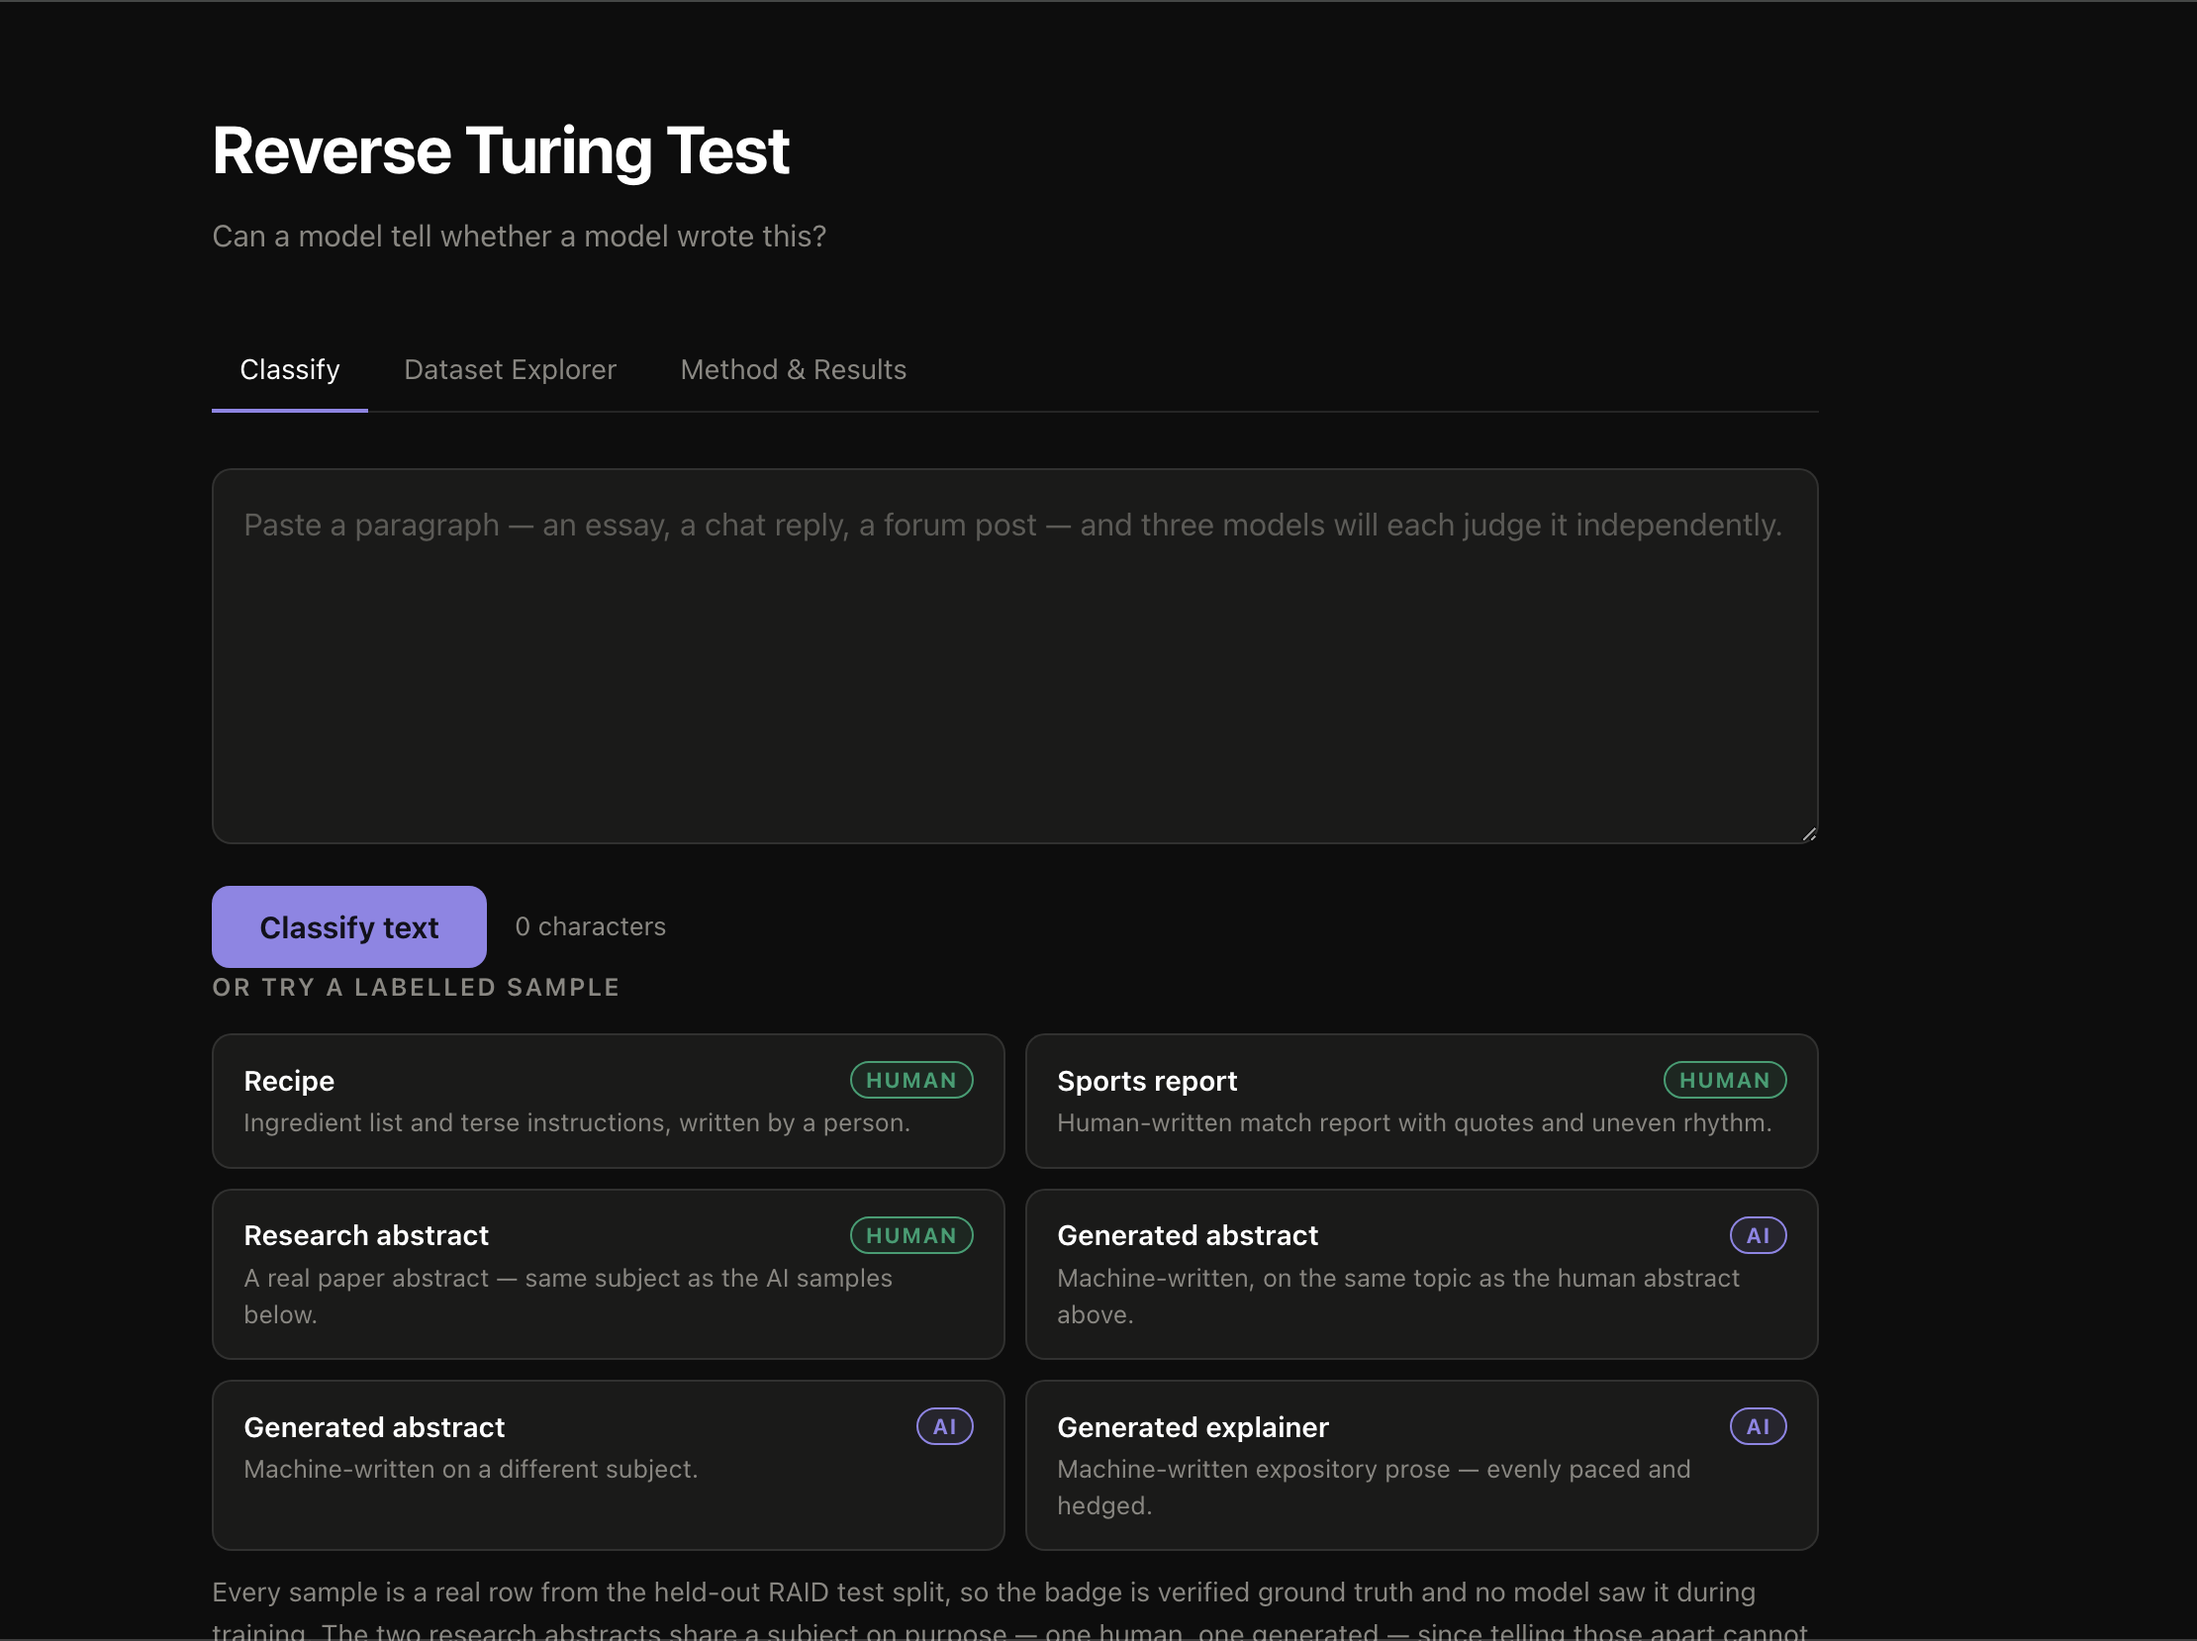
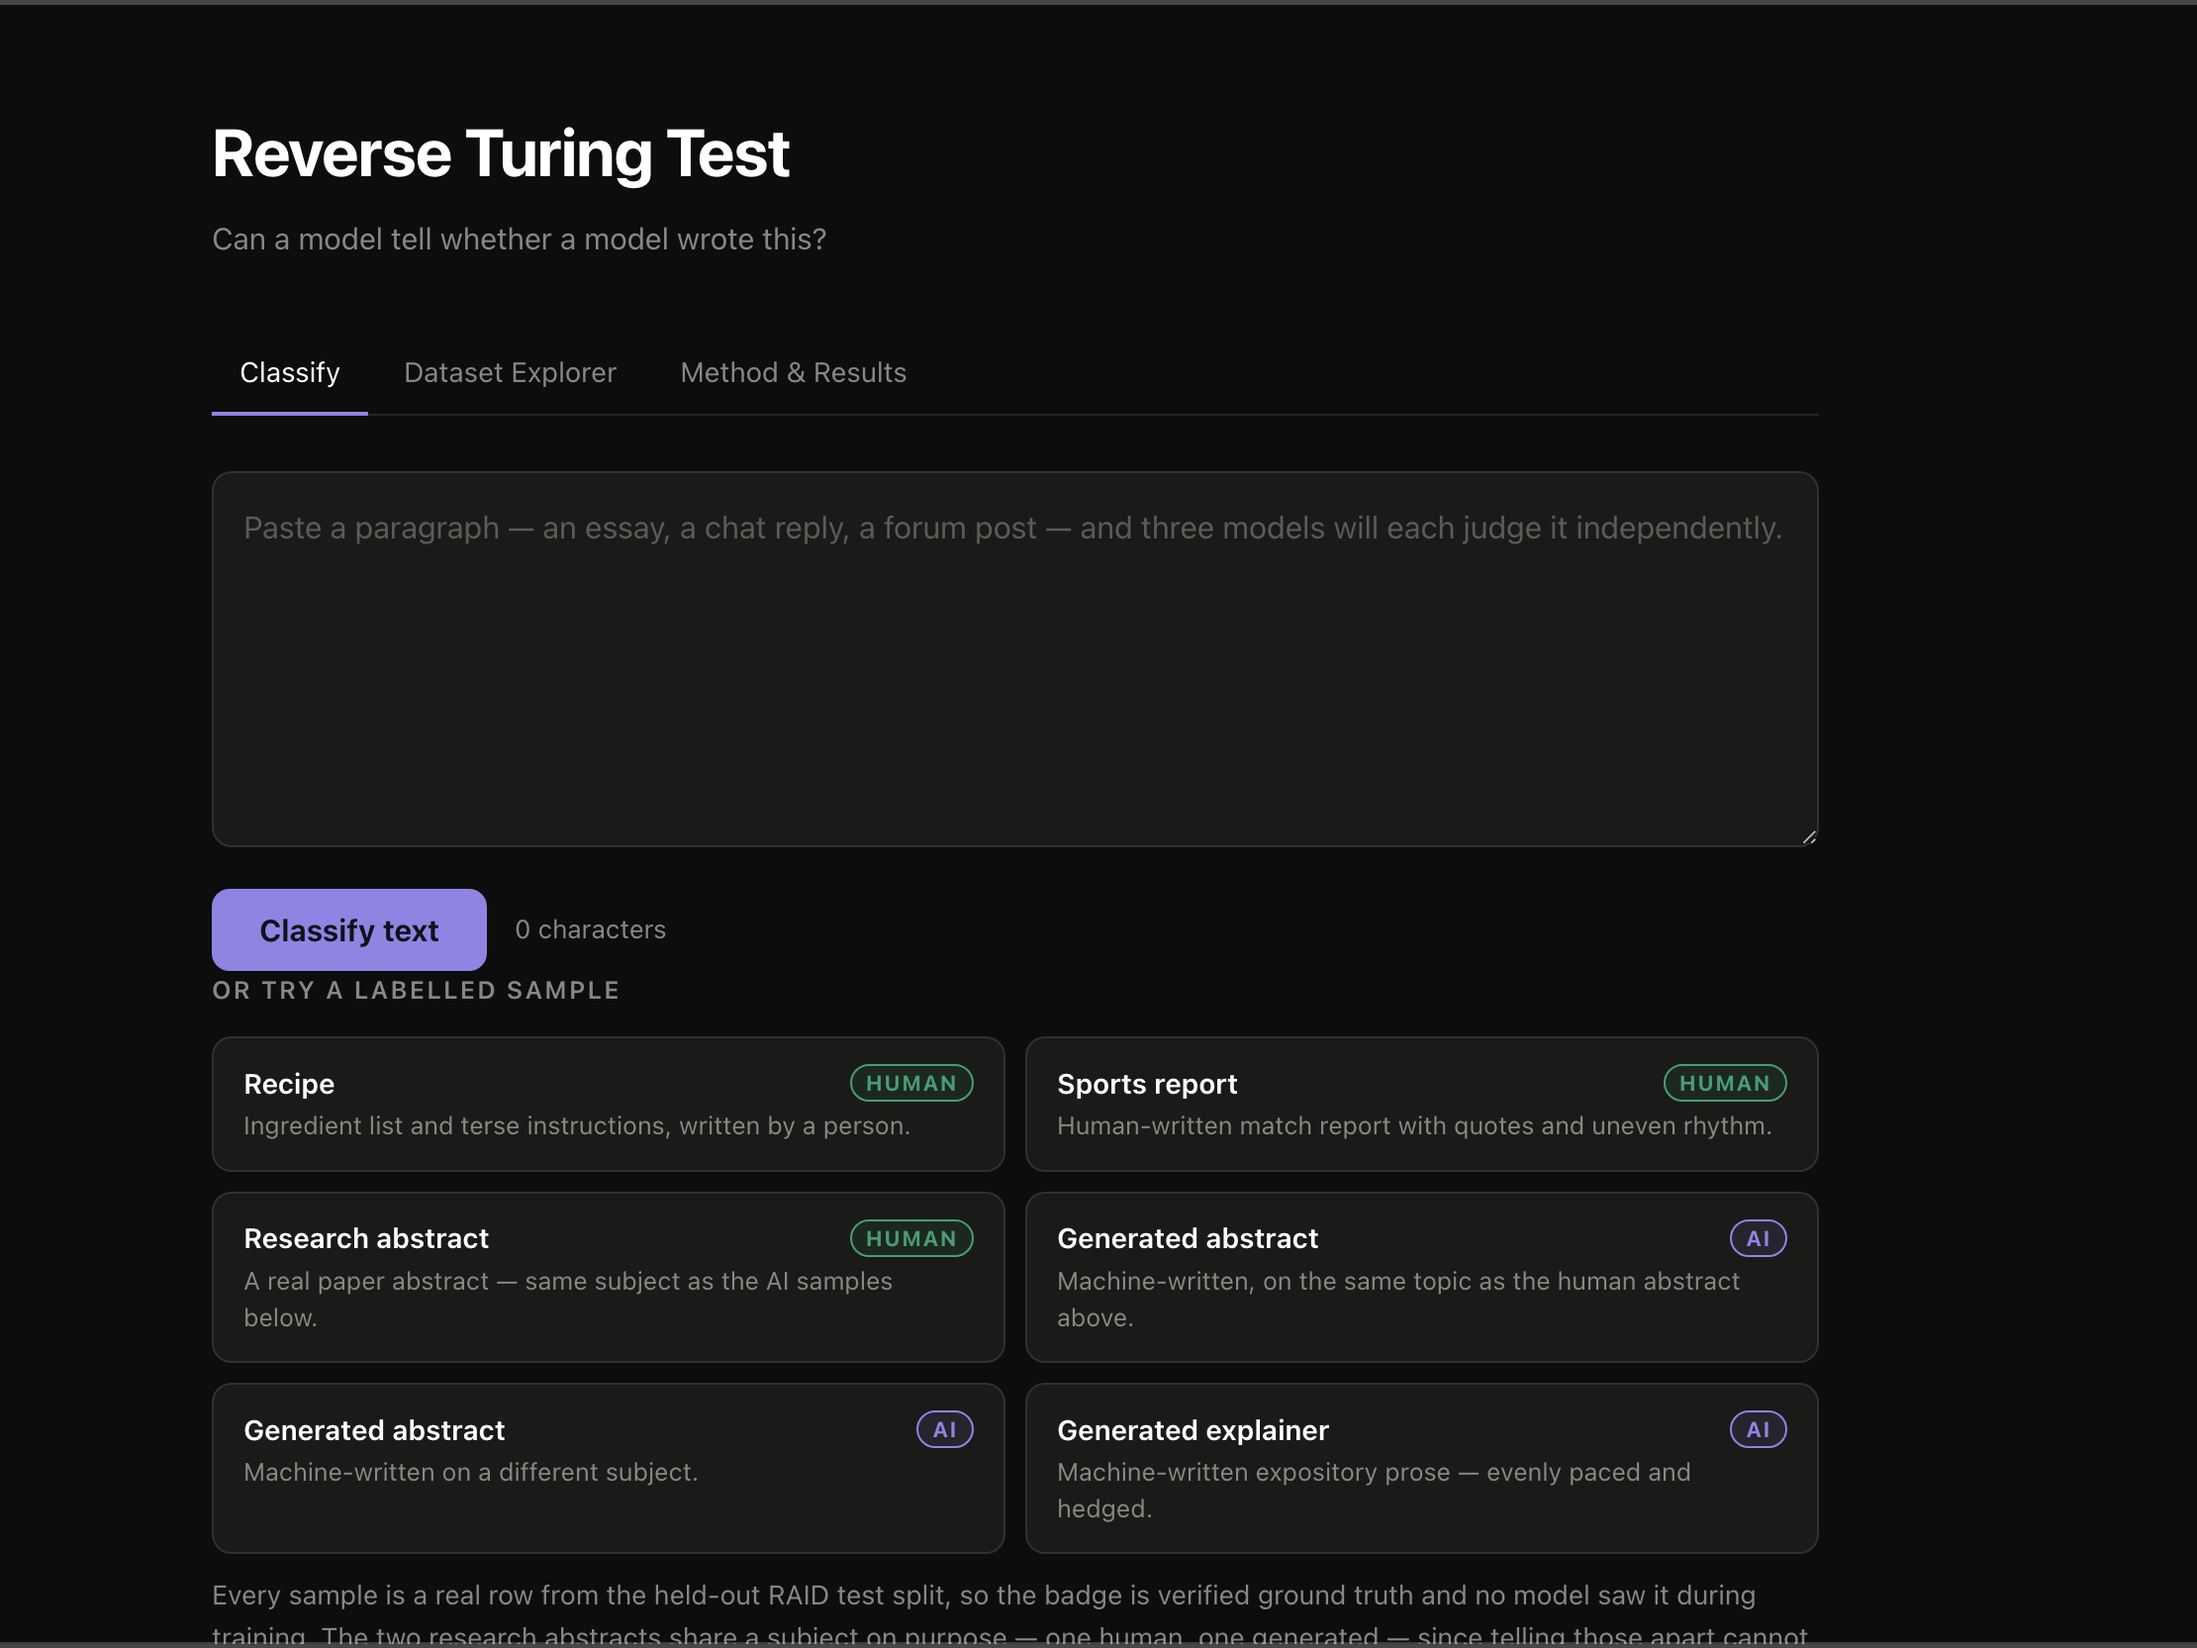
resized pictures, added hero page (again)

diff --git a/style.css b/style.css
@@ -110,13 +110,59 @@ section {
     height: 100vh;
 }
 
+/* ---- Hero ---- */
+#hero {
+    display: flex;
+    flex-direction: column;
+    justify-content: center;
+    align-items: center;
+    text-align: center;
+    /* The nav links park low on this screen now, so the clearance moved here */
+    padding: 6rem 2rem 8rem;
+}
+
+#hero-name {
+    font-weight: 500;
+    font-size: clamp(2.75rem, 9vw, 5rem);
+    line-height: 1.1;
+    margin-bottom: 1rem;
+}
+
+#hero-tagline {
+    font-size: clamp(1.1rem, 2.5vw, 1.5rem);
+    opacity: 0.65;
+    margin-bottom: 2.5rem;
+}
+
+#hero-actions {
+    display: flex;
+    align-items: center;
+    justify-content: center;
+    flex-wrap: wrap;
+    gap: 1rem;
+}
+
+.hero-button {
+    padding: 0.6rem 1.75rem;
+    border: 1px solid var(--text);
+    color: var(--text);
+    text-decoration: none;
+    font-size: 1.1rem;
+    transition: background 0.2s, color 0.2s, border-color 0.2s;
+}
+
+.hero-button:hover {
+    background: var(--accent);
+    border-color: var(--accent);
+    color: var(--bg);
+}
+
 #about {
     display: flex;
     flex-direction: column;
     justify-content: center;
     align-items: center;
-    /* Bottom padding reserves room for the nav links parked down there */
-    padding: 6rem 2rem 8rem;
+    padding: 6rem 2rem 4rem;
 }
 
 #about-content {
@@ -859,7 +905,11 @@ html.dark #theme-toggle::after {
     font-size: 0.95rem;
 }
 
+/* #nav-socials is listed explicitly because script.js relocates it out of
+   #social-links into the footer on desktop. Without it these SVGs have no
+   width/height attributes and would fall back to their intrinsic default. */
 #social-links svg,
+#nav-socials svg,
 #about-links svg {
     width: 17px;
     height: 17px;
@@ -872,13 +922,33 @@ html.dark #theme-toggle::after {
     transform: translateY(-120px);
 }
 
+/* A real footer band at the end of the document rather than a floating
+   fixed chip: copyright on the left, social icons pushed to the right.
+   opacity lives on the text alone — on the container it would dim the icons
+   relocated in beside it. */
 #footer {
-    position: fixed;
-    bottom: 1rem;
-    right: 1.5rem;
-    font-size: 0.85rem;
+    display: flex;
+    align-items: center;
+    justify-content: space-between;
+    gap: 1.5rem;
+    width: 100%;
+    padding: 2.5rem 3rem;
+    border-top: 1px solid var(--border);
+    font-size: 0.9rem;
+    /* Reachable under `scroll-snap-type: y mandatory`, which would otherwise
+       pull the view back to the last full-height section. */
+    scroll-snap-align: end;
+}
+
+#footer-copy {
     opacity: 0.5;
-    z-index: 5;
+}
+
+/* Two ids, so this beats both `#nav-socials { display: none }` and
+   `body.past-hero #nav-socials` — the footer set is visible from the hero on. */
+#footer #nav-socials {
+    display: inline-flex;
+    gap: 1rem;
 }
 
 /* Nav toggle */
@@ -1208,10 +1278,15 @@ html.dark #theme-toggle::after {
         scroll-margin-top: 56px;
     }
 
-    /* Static so it stops floating over section content while scrolling */
+    /* Nav links are a drawer here, not a parked band, so no bottom clearance */
+    #hero {
+        padding: 5rem 1.25rem 3rem;
+    }
+
+    /* Static so it stops floating over section content while scrolling.
+       justify-content, not text-align — the footer is a flex row now. */
     #footer {
-        position: static;
-        text-align: center;
-        padding: 2rem 1rem;
+        justify-content: center;
+        padding: 2rem 1.25rem;
     }
 }

diff --git a/script.js b/script.js
@@ -1,9 +1,9 @@
 // Docks the nav links and fades in the top bar.
-// Fires as soon as About gives up ~10% of the viewport, rather than waiting
-// until it has almost fully scrolled away — that head start is what lets the
-// links finish moving up before the next section's content is on screen.
+// Fires as soon as the first screen gives up ~10% of the viewport, rather
+// than waiting until it has almost fully scrolled away — that head start is
+// what lets the links finish moving up before the next section is on screen.
 const DOCK_THRESHOLD = 0.9;
-const firstSection = document.getElementById('about');
+const firstSection = document.getElementById('hero') || document.getElementById('about');
 if (firstSection) {
     const updateNav = () => {
         const bottom = firstSection.getBoundingClientRect().bottom;
@@ -110,6 +110,28 @@ if (navTargets.length) {
     }, { rootMargin: '-40% 0px -59% 0px' });
 
     navTargets.forEach(target => sectionObserver.observe(target.section));
+}
+
+// Social icons belong in the footer on desktop and in the nav bar on mobile.
+// nav and #footer are separate elements, so CSS can't move the node between
+// them — relocating beats duplicating three inline SVGs into both.
+const navSocials = document.getElementById('nav-socials');
+const socialGroup = document.getElementById('social-links');
+const footerBox = document.getElementById('footer');
+if (navSocials && socialGroup && footerBox) {
+    const mq = window.matchMedia('(max-width: 768px)');
+    const placeSocials = () => {
+        if (mq.matches) {
+            if (navSocials.parentElement !== socialGroup) {
+                // Back between Resume and the theme toggle
+                socialGroup.insertBefore(navSocials, document.getElementById('theme-toggle'));
+            }
+        } else if (navSocials.parentElement !== footerBox) {
+            footerBox.appendChild(navSocials);
+        }
+    };
+    placeSocials();
+    mq.addEventListener('change', placeSocials);
 }
 
 // Close the mobile drawer after tapping a nav link.

diff --git a/index.html b/index.html
@@ -75,6 +75,17 @@
     </div>
     <label for="nav-toggle" id="nav-scrim" aria-hidden="true"></label>
 
+    <section id="hero">
+        <div id="hero-content">
+            <h1 id="hero-name">Nishad Mansoor</h1>
+            <p id="hero-tagline">AI Engineer &middot; Data Scientist</p>
+            <div id="hero-actions">
+                <a href="#projects" class="hero-button">View Work</a>
+                <a href="assets/NishadMansoor - Resume.pdf" download class="hero-button">Resume</a>
+            </div>
+        </div>
+    </section>
+
     <section id="about">
         <div id="about-content">
             <div id="about-header">
@@ -433,7 +444,9 @@
         <div class="flip-backdrop" data-flip-close></div>
     </section>
 
-    <div id="footer">&copy; 2026 Nishad Mansoor</div>
+    <footer id="footer">
+        <span id="footer-copy">&copy; 2026 Nishad Mansoor</span>
+    </footer>
 
 </body>
 
